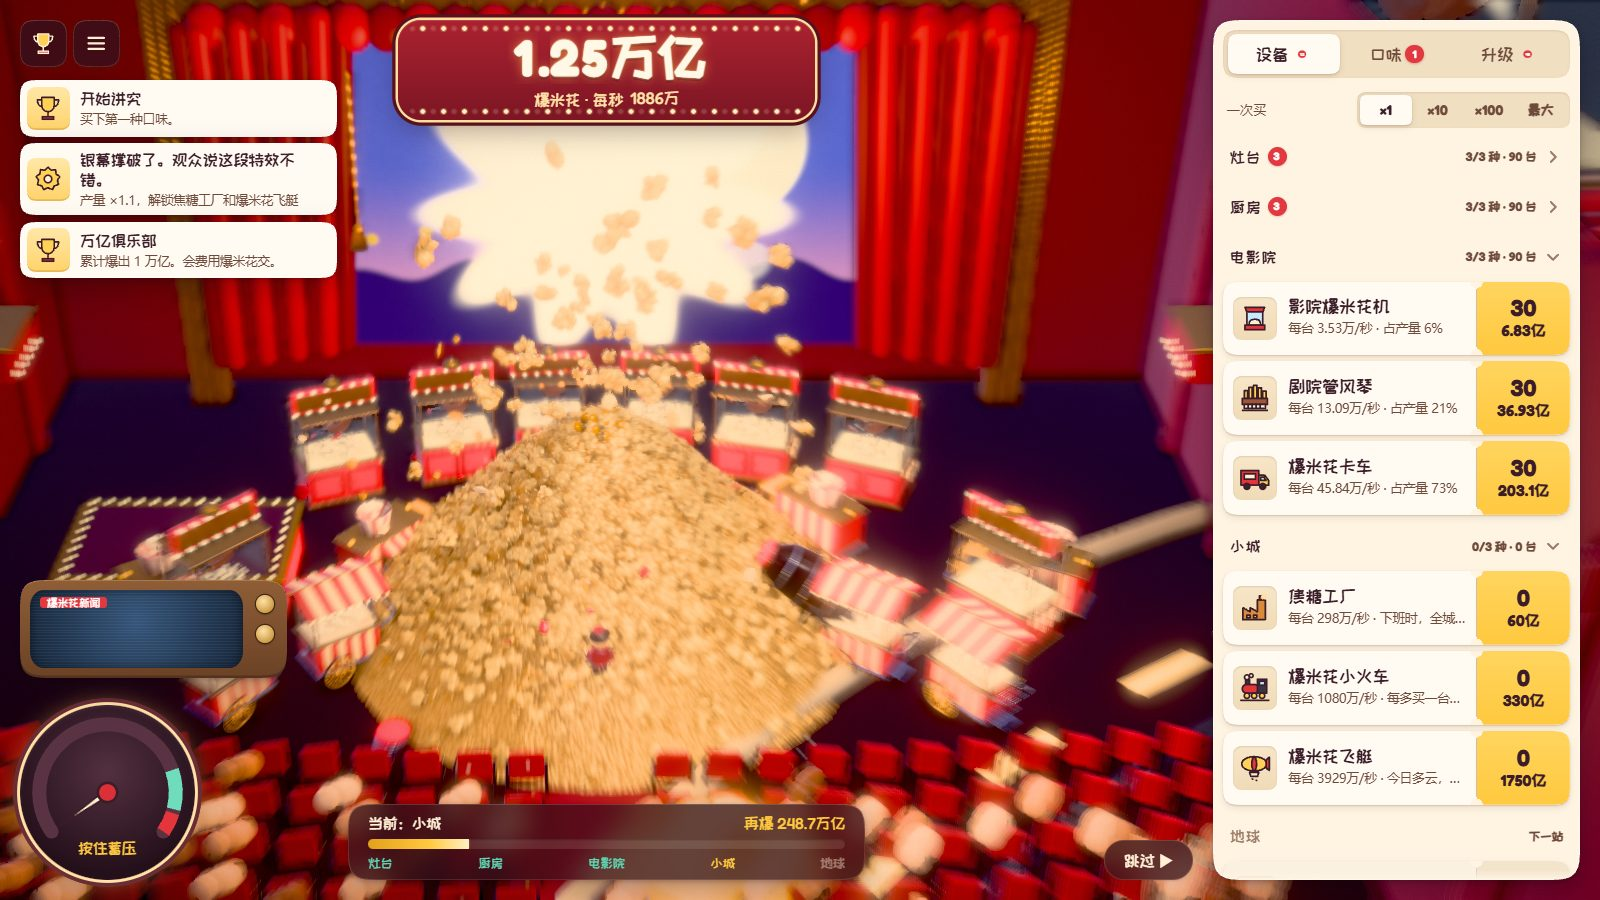
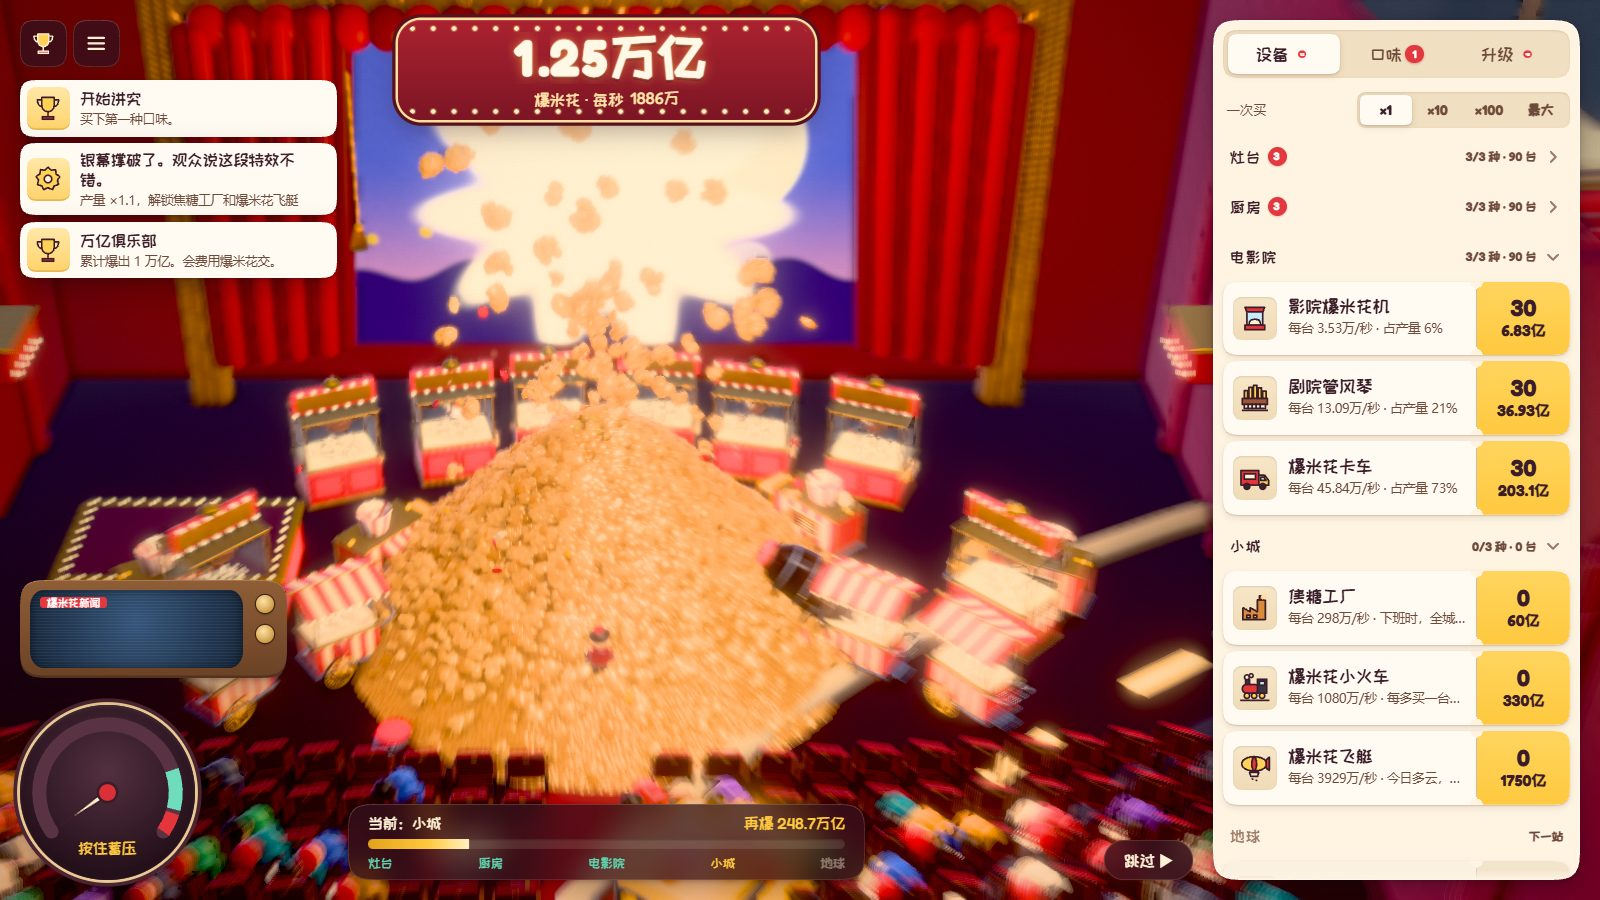
Phase 5 stage 10: release
Full regression on the laptop GPU: unit, end-to-end and production
tests, audio, balance unchanged, budget, a bot playthrough to the
ending, ten-minute soaks of the town and the Earth, and performance
against the pre-phase build, recorded with the gates this machine does
not meet. README covers photo mode, the purchase fly-in, combo tiers
and the click ring, with fresh captures; README captures now settle
interface transitions first. The share card is a new render of the
title.

diff --git a/tools/readme-media.ts b/tools/readme-media.ts
@@ -40,7 +40,8 @@ async function scene(page: Page, stage: number, progress: number, flavors: numbe
 const save = async (page: Page, name: string): Promise<void> => {
   // The counter's digits roll on the wall clock; let them land.
   await page.waitForTimeout(700);
-  writeFileSync(`${OUT}/${name}.jpg`, await page.screenshot({ type: 'jpeg', quality: QUALITY }));
+  // Interface transitions run on the wall clock; settled, the counter never shows mid-roll.
+  writeFileSync(`${OUT}/${name}.jpg`, await page.screenshot({ type: 'jpeg', quality: QUALITY, animations: 'disabled' }));
   console.log(name);
 };
 

diff --git a/README.md b/README.md
@@ -111,7 +111,11 @@
 
 **Flavors and decorations.** Twelve flavors, from butter and sea salt to rainbow, starry and a mystery flavor, each recoloring the whole heap. Ten decorations, two per scene, from a neon sign to an aurora.
 
-**Poke things.** Point at a working machine and it lifts a little; poke it and it squashes, springs back and works one extra cycle.
+**Poke things.** Point at a working machine and it lifts a little and glows warm round its edges; poke it and it squashes, springs back and works one extra cycle.
+
+**Everything answers.** A click sends a ring of warm light over the heap. Every twelve clicks in a run burst over the pot, and the burst steps up at 24, 48 and 96, from gold to peach to a rainbow, with a higher note each time. A bought machine's ticket flies out of the shop to the spot where the machine will stand, and the machine drops in as it lands. Big wins stream popcorn into the counter.
+
+**Photo mode.** Press <kbd>P</kbd> or pick it from the pause menu. The economy stops and the interface steps aside: turn, zoom and pan the camera round the scene, tap to focus, add a tilt-shift band, pick a warm, cool or black-and-white look, freeze the scene or let it keep moving, and save the picture as a PNG.
 
 **Fifteen hidden things.** Three per scene. A wall clock, a pepper shaker, a fridge, a radio, the projector, a curtain cord, the pigeons, a satellite, the moon… each one plays a short gag and joins the album in the achievements page.
 
@@ -136,6 +140,7 @@
 | Hold <kbd>Space</kbd> or the pressure gauge, release in the green zone | Fire the cannon |
 | Click the bouncing orange kernel | Start a frenzy |
 | <kbd>Esc</kbd> | Pause, settings and saves |
+| <kbd>P</kbd> | Photo mode: drag to turn, wheel to zoom, right-drag or <kbd>Shift</kbd>-drag to pan, click to focus, <kbd>H</kbd> hides the toolbar, <kbd>Esc</kbd> leaves |
 
 The game is made for a desktop screen and a mouse. Phones and small windows get a short notice first and can still go on. All text in the game is Simplified Chinese.
 
@@ -180,11 +185,12 @@ The first end-to-end run needs browsers: `npx playwright install chromium firefo
 <summary><strong>🛠 Under the Hood</strong></summary>
 
 - **Everything is generated.** Machines, scenes, popcorn, textures, signs, shaders, music and sound effects are all made by code at load time. There are no model, texture or audio files.
-- **Rendering:** three.js on WebGL 2 with a custom toon-and-enamel material set, a heightfield heap with instanced surface flakes, refracting glass (high and ultra), screen-space reflections on polished floors, soft shadows, ground-truth-style ambient occlusion, a tilt-shift focus band, bloom, and camera motion blur during breakouts.
+- **Rendering:** three.js on WebGL 2 with a custom toon-and-enamel material set, a heightfield heap with instanced surface flakes, refracting glass (high and ultra), screen-space reflections on polished floors, soft shadows, ground-truth-style ambient occlusion, a tilt-shift focus band, bloom, and camera motion blur during breakouts. Each scene captures its own room into prefiltered cube maps while it is built in the background, so chrome and enamel reflect the actual set; materials add velvet, soft vinyl, smudged metal and neon. Light shafts fall from windows and the projector, trees sway in the wind with their shadows, dust, fireflies and meteors drift through the air, and the final pass sharpens what is in focus.
 - **Draw calls:** each machine type is one "part rig": all its parts in one mesh, posed from a small float texture, so a scene with every slot filled stays within 120 draw calls and 13 million triangles in the worst case (`npm run budget`).
 - **Background building:** the next scene is built a few milliseconds per frame while you play, its shaders compile in parallel, and its buffers go to the GPU one piece per frame.
 - **Rules apart from rendering:** the economy runs at a fixed 10 steps a second in `src/sim` with no browser dependencies, so the balance simulator plays the real rules.
 - **Measured on one desktop** (Radeon RX 7900 XT, Chrome): every scene holds 60 FPS at 4K on the highest setting with ten clicks a second; with the CPU slowed down four times, 1080p on low still holds 60 FPS. A first visit on a simulated 10 Mbps connection shows the loading screen in about 0.4 s and the title in about 2.3 s.
+- **Measured again on a laptop** (GeForce RTX 3070 Laptop GPU, Chrome) after the visual overhaul: at 1440p every scene holds 60 FPS with ten clicks a second; at 4K on ultra with nothing capping the frame rate, frames take 10–22% longer than before it, the cinema and its crowd of 176 the most.
 
 ```text
 src/sim, src/content, src/events   Game rules and data, with no browser dependencies
@@ -201,7 +207,7 @@ docs                               Design, plan, balance report and credits
 ## 🧪 Verification
 
 - Unit tests cover prices, multipliers, offline time, save migration and damage, content, story timing and interface rules.
-- End-to-end tests run the real game in Chromium, Chrome and Firefox: layout at six window sizes, every button's press-and-release behavior, the shop, the cannon, saves, the ending, pokes, and all fifteen hidden things found by clicking them on screen.
+- End-to-end tests run the real game in Chromium, Chrome and Firefox: layout at six window sizes, every button's press-and-release behavior, the shop, the cannon, saves, the ending, pokes, all fifteen hidden things found by clicking them on screen, the purchase fly-in, combo tiers, hover glow, and photo mode down to the saved PNG.
 - Production tests check the built site; the same tests were run against the live site after it was deployed.
 - GitHub Actions type-checks, runs the unit tests and builds before deploying to GitHub Pages.
 - `docs/EXECUTION_PLAN.md` records every phase with the checks that were actually run and their results.
@@ -210,7 +216,9 @@ docs                               Design, plan, balance report and credits
 
 - Edge has not been tested; Chromium and Chrome pass, and Edge shares their engine.
 - Performance was measured on one desktop with a Radeon RX 7900 XT. Integrated graphics and laptops have not been tested on real hardware; the automatic quality setting lowers resolution and then detail when frames run long.
-- A breakout can drop one frame at 60 FPS. While the town and the Earth are built in the background, one or two build steps take 18–25 ms.
+- A breakout can drop one frame at 60 FPS. While the scenes are built in the background, a few build steps take longer than one frame (the little train up to about 38 ms).
+- On the laptop above, a first visit on a simulated 10 Mbps connection shows the title in 3.2–3.6 s, most of it compiling shaders; the version before the visual overhaul took the same there.
+- Soft shadow edges on small objects show a fine cross-hatch grain, and the Earth's snow and cloud edges step slightly at 1080p.
 - Game feel, sound and art direction have been checked with frame captures and loudness analysis, not yet by a group of human players. Pacing was tuned with simulated players: about 2.5 hours for an active player and about 3.3 hours for one who never clicks.
 - Simplified Chinese is the only language.
 
